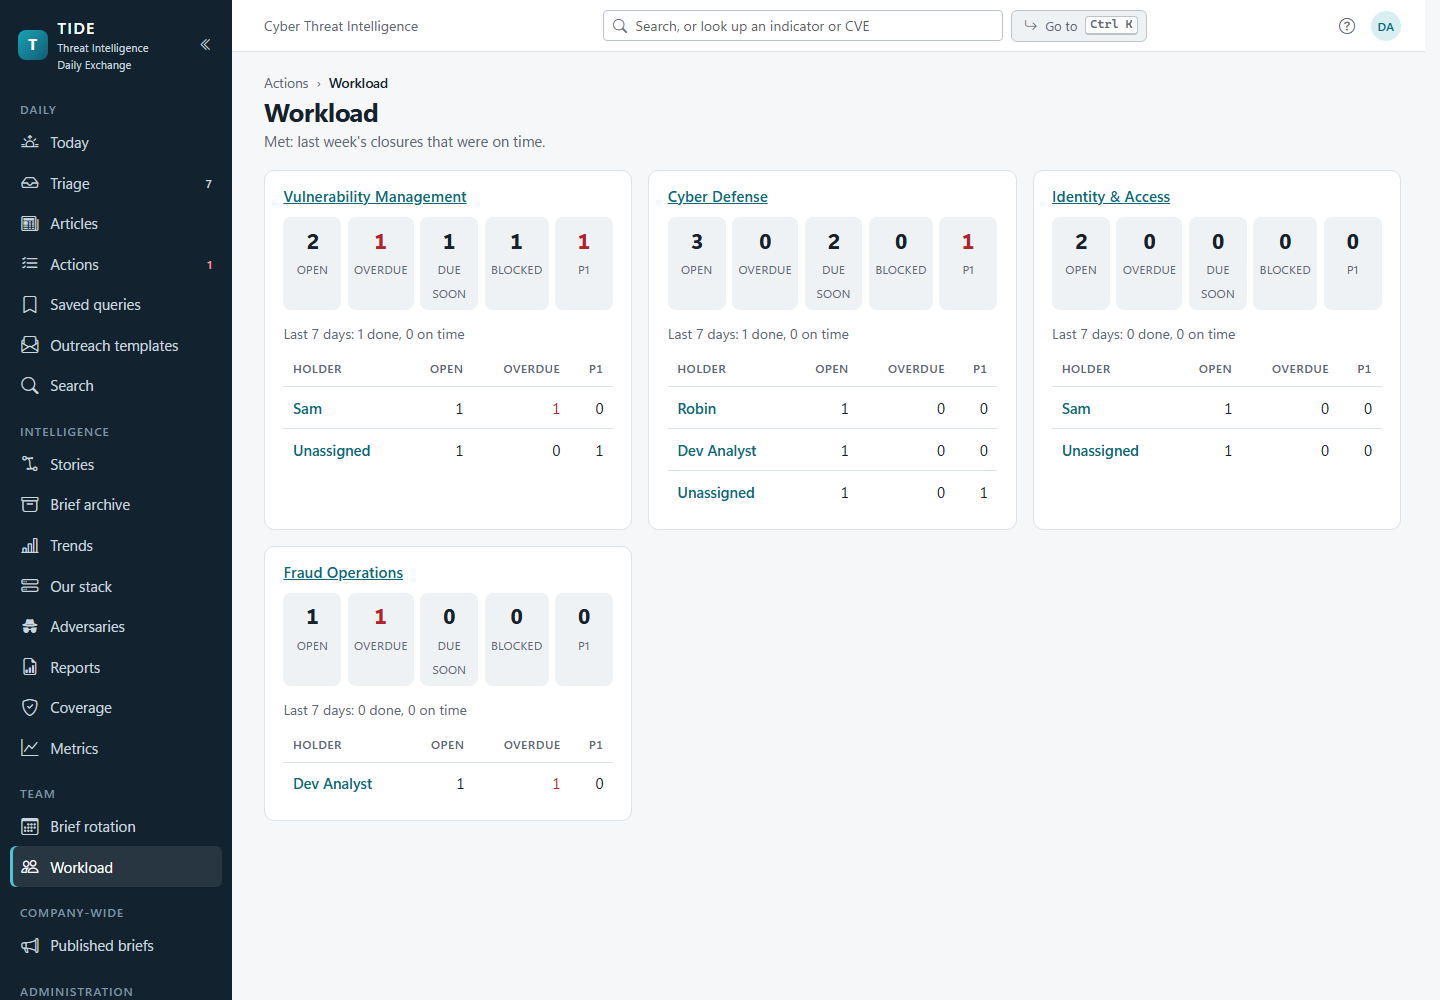
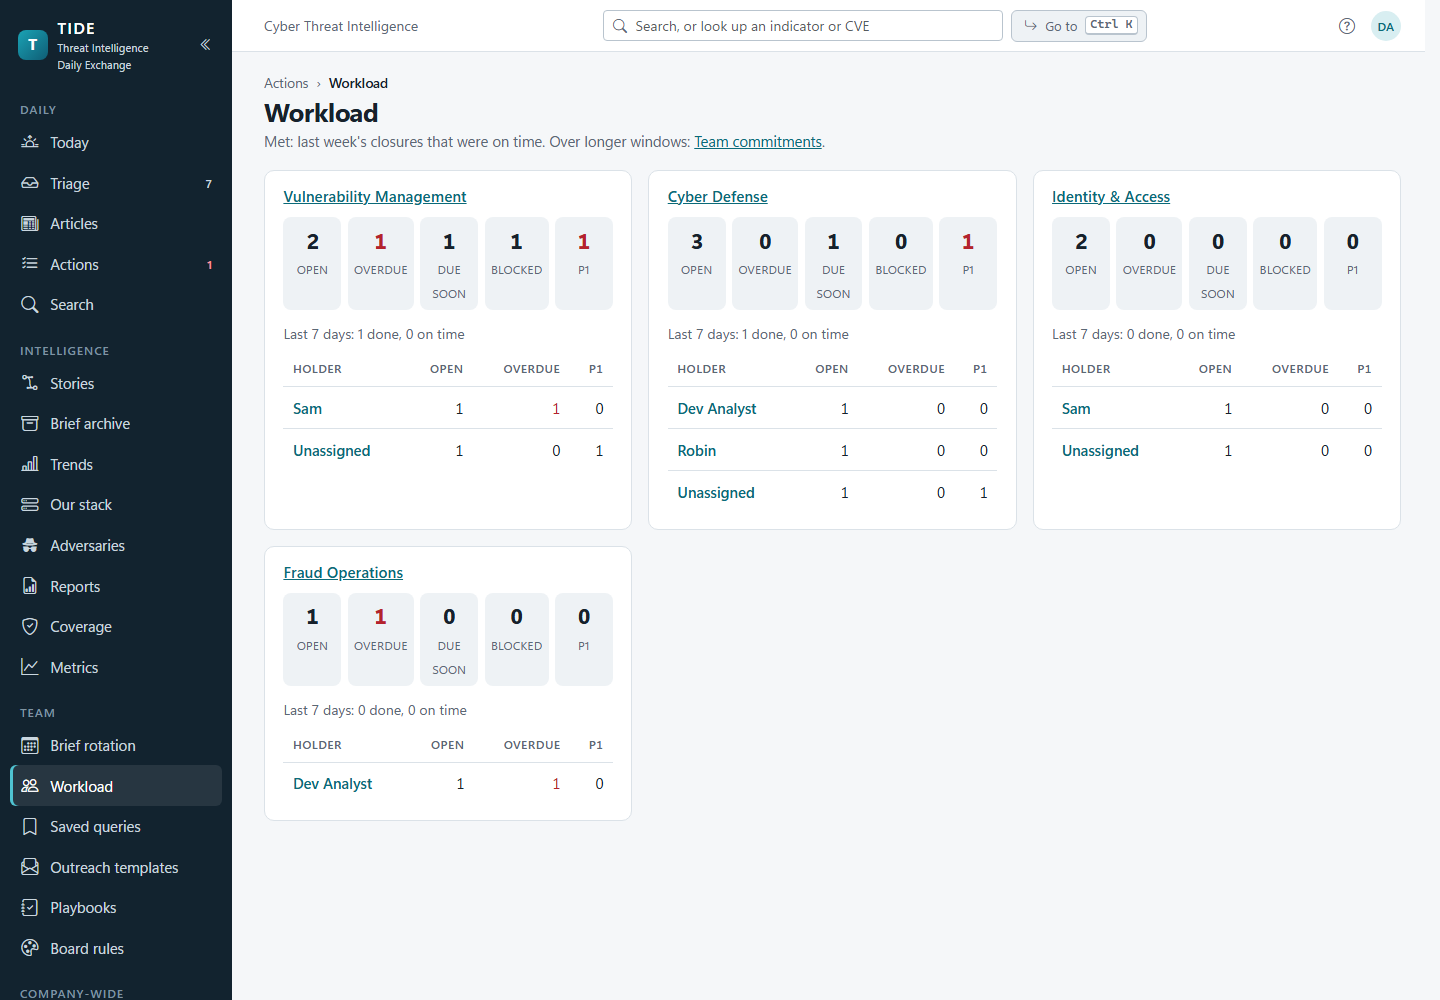
Release notes for v1.8.0, and the screenshots retaken

diff --git a/docs/UPGRADE.md b/docs/UPGRADE.md
@@ -171,6 +171,75 @@ anonymous request with 404, and the page says so.
 Each release's notes, newest first, under a `### vX.Y.Z` heading (a pre-release's under its own tag, when it has
 any). What changed for administrators: new settings, steps the upgrade needs, anything that behaves differently.
 
+### v1.8.0
+
+Upgrade as usual (`Upgrade-Tide.ps1 -Version latest`). It adds seven migrations: `PlaybooksTeamLibrary`,
+`LongerHuntQueries`, `EditVersionsForRepliesProfilesProducts`, `SourceEditVersion`, `KeptRotationDays`,
+`ChecklistItemAddedAt` and `TeamEditVersion`. None of the earlier ones change. On a DbaApplies install, the DBA
+applies them first, as for any release that carries one.
+
+**Changes to check before upgrading**
+- **`Database:Provider` is checked at start-up.** It must be `SqlServer` or `Sqlite` (any case), or blank for SQLite.
+  A mistyped value such as "SQL Server" used to be quietly read as SQLite. It now stops start-up with a message
+  naming the setting. Check yours if it was ever hand-edited.
+- **Playbooks moved.** They're now at Team › Playbooks (`/playbooks`), kept by anyone who works actions, like Saved
+  queries and Outreach templates. The old `/admin/playbooks` address redirects. Existing playbooks keep their steps and
+  order; one that was inactive is now *retired*.
+- **An email whose delivery isn't known is Unknown, not Failed.** A send that times out, or whose connection drops
+  after the relay may have taken it, is recorded as Unknown and never retried by itself. Diagnostics, the reminder
+  runs, an escalation's history and the brief's next send confirmation say to check whether it arrived before sending
+  again. A clear refusal (a bad recipient, sign-in, relay unreachable, pickup folder unusable) is still Failed.
+- **One reminder a day per external contact.** When the escalation ladder's remind step and an external team's own
+  reminder fall on the same day for the same action, the second is skipped, and its history says so.
+
+**For administrators**
+- **Brief rotation keeps who presented.** Changing a week on Administration › Brief rotation now leaves days whose
+  brief was already presented (or sent, or held) with the person who presented them. **Correct past days** is a
+  separate, deliberate step to change those too, recorded in the audit log as a correction.
+- **Two administrators editing the same team, source or product** no longer overwrite each other. A form opened
+  before someone else's save is refused with who changed it, and stays open with a Reload button. The same applies to
+  adversary profiles and to recording an outreach reply.
+- **Diagnostics shows a failing reminder scan** as a failed job, naming the scan, not "No failures".
+- **A retired team stays on Workload** while it still has open actions, marked Retired.
+- **Links written from the site root** (`[x](/actions/12)`) now work when TIDE runs under a sub-path such as /tide,
+  and in email they point at `App:BaseUrl`.
+
+**For everyone**
+- **The action page is laid out around the next step.**
+  - One main button for what the action needs now: take it, record the reply, write the email, record an update, or
+    close it. Everything else is under **More**.
+  - A **Next** line says what the action is waiting on.
+  - **What's happened** is one feed of comments and history.
+  - The checklist, timeline, hunt queries and outreach sit in a drawer beside it.
+- **Board rules** (Team › Board rules): everyone can see the card rules; administrators still edit them in Settings.
+- **Text boxes grow** with what you type, up to a limit, then scroll.
+- **Ctrl+Enter** (Cmd+Enter on a Mac) posts or saves the text box you're in.
+- **Hand-offs ask about reminders.** Handing off an action whose reminders are off asks whether to keep them off.
+- **A story's page updates live** when a colleague links an article to it, takes one off, or changes one of its
+  articles.
+- **Checklists keep one order**, and a playbook applied by two people at once adds its steps once. A playbook that
+  doesn't fit on the checklist is refused whole, saying how much room is left, rather than added in part.
+- **Hunt queries** search an international domain in both forms (as written and as logs record it), and a query TIDE
+  fills with hundreds of indicators is no longer refused for its length.
+- **Pages keep up with colleagues.** Adversary profiles, external teams and a story's page update as others change
+  them, without losing what you've typed. Two quick changes can no longer leave a page showing the older one.
+- **Safer text.**
+  - A link a web page planted in a drafting suggestion, in any Markdown form, reaches the brief as plain text.
+  - Angle-bracket links open in a new tab without telling the site where you came from.
+  - A web address inside a command-line, registry or other indicator is defanged.
+  - Long URLs and hashes wrap instead of running off their card.
+- **Fixes**, among about 45:
+  - Feed items with a wrong weekday, a placeholder date or a future date keep a sensible date.
+  - A meeting note stays on the article it was begun on, and a meeting that runs past midnight keeps its day.
+  - Escalation emails aren't sent twice after a run is interrupted.
+  - An external team an action is handed to gets its own reminder.
+  - The meeting, the action page and Coverage all ask for a reason when a team is at its "Warn" limit.
+  - A garbled link no longer breaks a list page.
+  - Tab and Shift+Tab move through a filter's form.
+  - Escape closes a dialog after its text was clicked.
+  - Undo puts an article back on the brief it came off.
+  - An outreach placeholder typed wrongly is refused on save, not sent as typed.
+
 ### v1.7.0
 
 Upgrade as usual (`Upgrade-Tide.ps1 -Version latest`). It adds two migrations, `HandoffsTrackingAndExternalTeams` and
